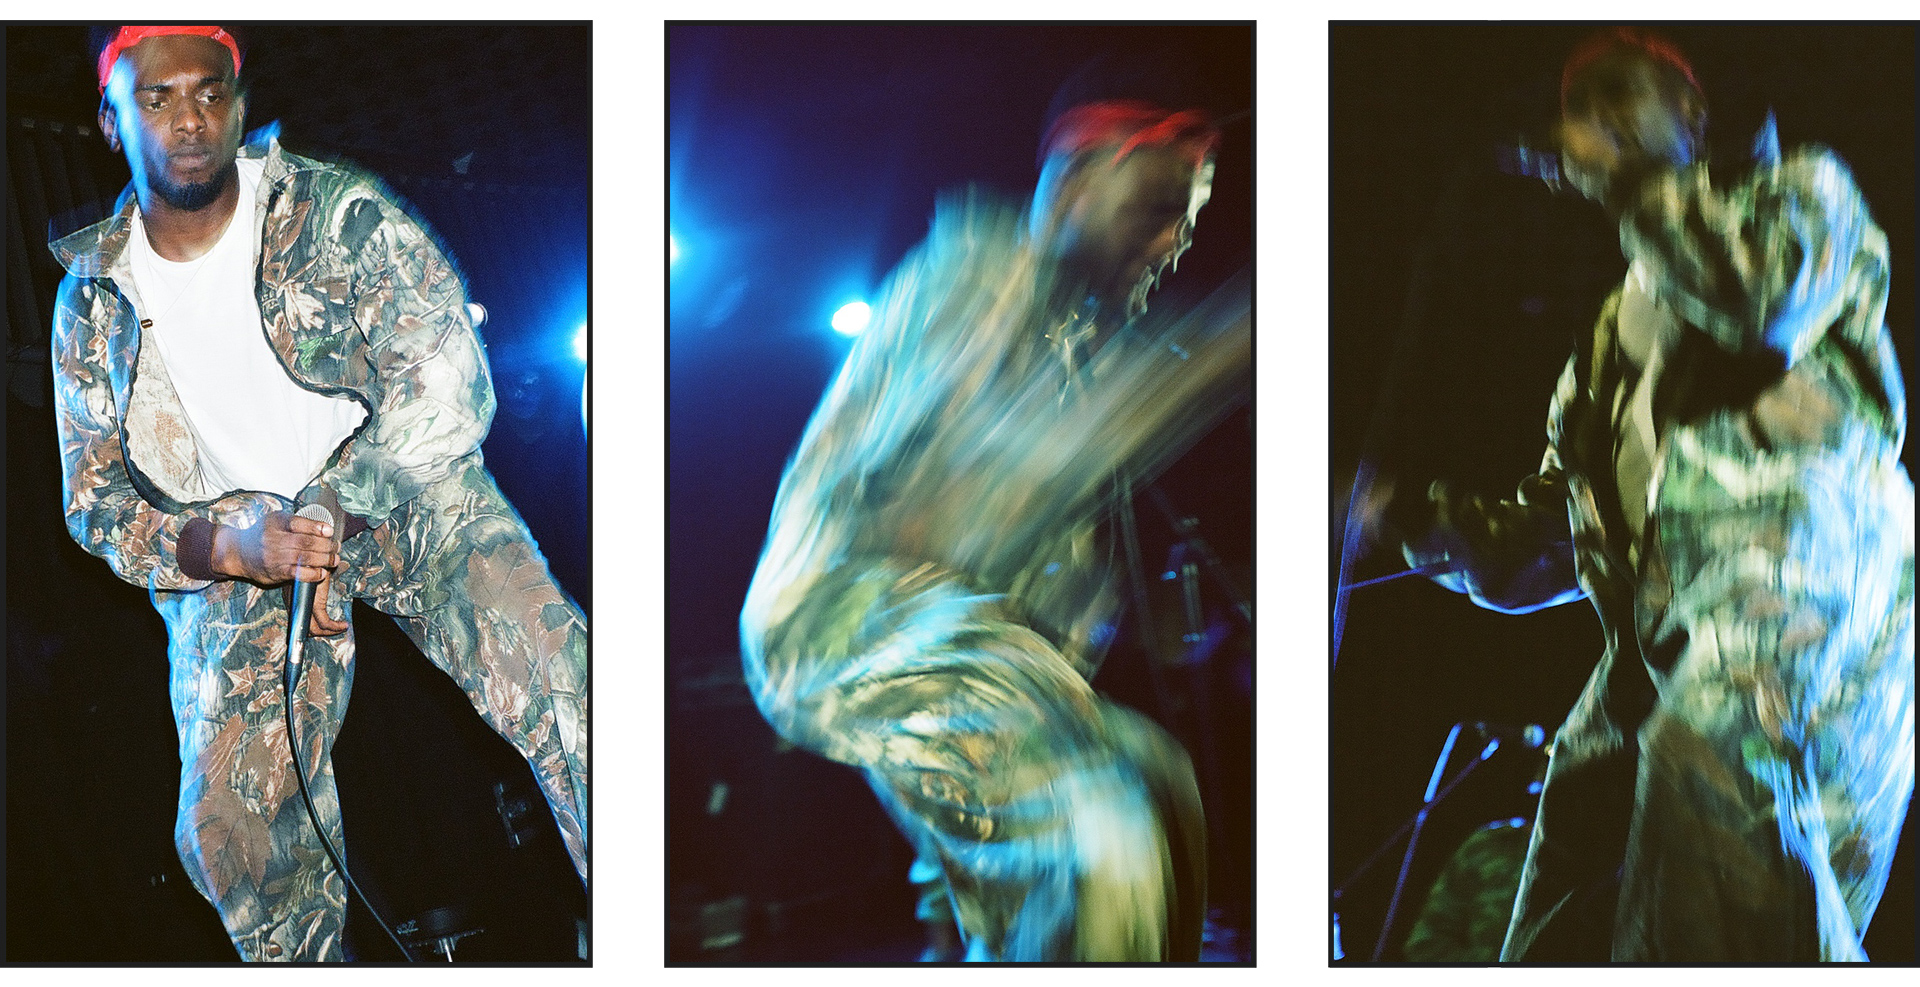
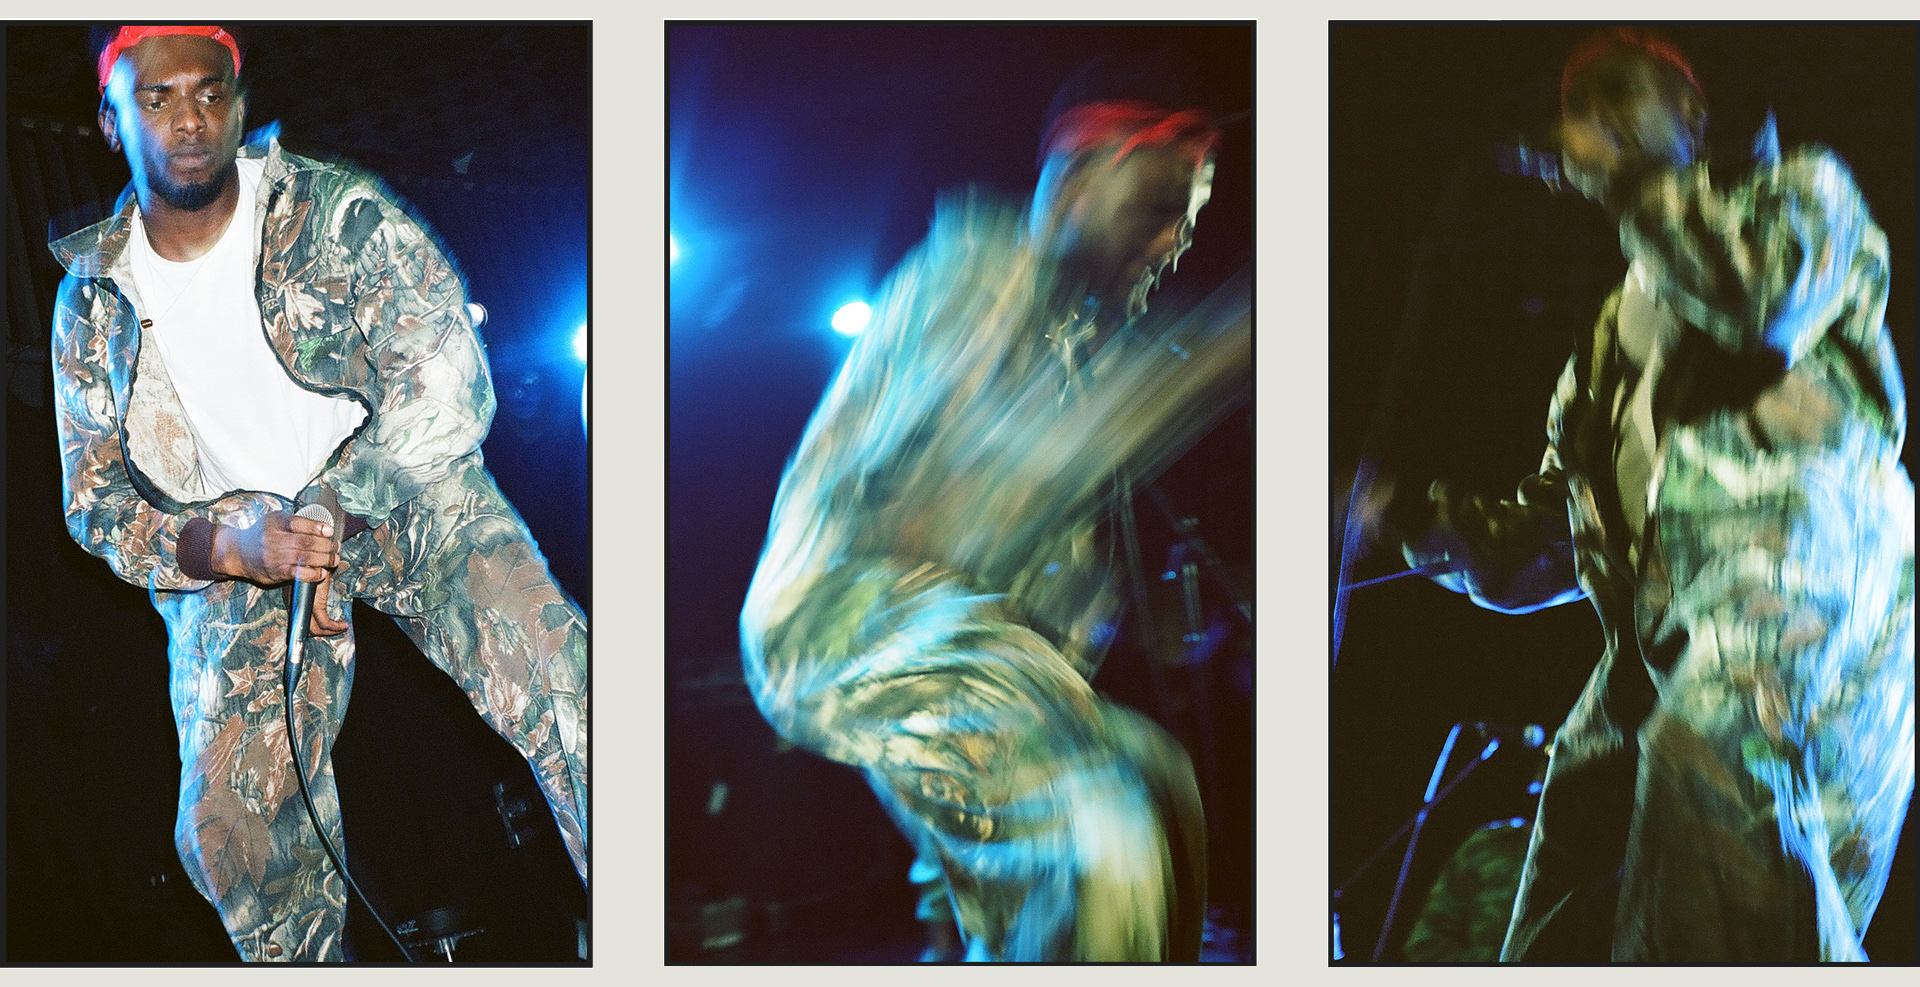
Content edits

Changed region(s): [[0.0, 0.0, 1.0, 1.0]]

diff --git a/index.html b/index.html
@@ -35,10 +35,10 @@
       <div class="grid">
 
         <div class="unit xs-1 s-1 m-1 l-1">
-        <h2 class="heading space-after centre uppercase">Press</h2>
-        <p class="space-after body-reg small-reg">Asuquomo was described by Bandcamp Daily as "...an artist elevating Ottawa immigrant communities". The Nigerian-born emcee is also a songwriter and visual artist. Since immigrating to Canada in 2012, MO's interdisciplinary background inspired the interest in narrative film writing and graphic novel adaptations, along with his musical and visual art aspirations. His 2018 self-titled LP <i>This That Mo</i>—released under his birth name Morris Ogbowu—was the recipient of the Rick and Brune Sinneave Artist Award at the Banff Centre 2018.</p>
-        <p class="space-after body-reg small-reg">MO’s rise to prominence in the Canadian hip-hop scene has earned him opening slots for the likes of Nigerian superstar Wizkid, Toronto's Jazz Cartier, Lido Pimienta, Zaki Ibrahim, BROCKHAMPTON and Lil Yatchy's Label Affiliate Kodie Shane. He’s also performed on some of the biggest stages in the city such as Ottawa’s Bluesfest, Winterlude, City Folk Festival, and Arboretum Festival. He’s garnered national attention within the past year, including an invitation to Banff Musicians In Residence. </p>
-        <p class="body-reg small-reg">Asuquomo debuted his first single after at Canadian Music Week in spring 2019 with the premiere of the Afrofusion influenced single <i>WIDE AWAKE</i> and with its accompanying visuals which have been described as a “reclaiming of the Pan-African narrative with non-verbal spells as verses and spirituals as hooks.”</p>
+        <h2 class="heading space-after centre uppercase colour-black">Press</h2>
+        <p class="space-after body-reg small-reg colour-black">Asuquomo was described by Bandcamp Daily as "...an artist elevating Ottawa immigrant communities". The Nigerian-born emcee is also a songwriter and visual artist. Since immigrating to Canada in 2012, MO's interdisciplinary background inspired the interest in narrative film writing and graphic novel adaptations, along with his musical and visual art aspirations. His 2018 self-titled LP <i>This That Mo</i>—released under his birth name Morris Ogbowu—was the recipient of the Rick and Brune Sinneave Artist Award at the Banff Centre 2018.</p>
+        <p class="space-after body-reg small-reg colour-black">MO’s rise to prominence in the Canadian hip-hop scene has earned him opening slots for the likes of Nigerian superstar Wizkid, Toronto's Jazz Cartier, Lido Pimienta, Zaki Ibrahim, BROCKHAMPTON and Lil Yatchy's Label Affiliate Kodie Shane. He’s also performed on some of the biggest stages in the city such as Ottawa’s Bluesfest, Winterlude, City Folk Festival, and Arboretum Festival. He’s garnered national attention within the past year, including an invitation to Banff Musicians In Residence. </p>
+        <p class="body-reg small-reg colour-black">Asuquomo debuted his first single after at Canadian Music Week in spring 2019 with the premiere of the Afrofusion influenced single <i>WIDE AWAKE</i> and with its accompanying visuals which have been described as a “reclaiming of the Pan-African narrative with non-verbal spells as verses and spirituals as hooks.”</p>
         </div>
 
       </div>
@@ -49,26 +49,26 @@
       <div class="grid centre">
 
         <div class="unit xs-1 s-1 m-1 l-1">
-        <h2 class="heading space-after centre uppercase">Shows</h2>
+        <h2 class="heading space-after centre uppercase colour-black">Shows</h2>
 
-        <p class="lives-shows-date body-medium uppercase small-reg">Aug 18, SUN</p>
-        <p class="body-medium small-reg">African Giant Returns Tour—Opener</p>
-        <p class="body-reg small-reg space-after-1-2">Rebel, 11 Polson Street, Toronto, ON</p>
+        <p class="lives-shows-date body-medium uppercase small-reg colour-black">Aug 18, SUN</p>
+        <p class="body-medium small-reg colour-black">African Giant Returns Tour—Opener</p>
+        <p class="body-reg small-reg space-after-1-2 colour-black">Rebel, 11 Polson Street, Toronto, ON</p>
+        <p class="body-reg small-reg uppercase button space-after3x"><a href="gallery-burnaboy.html">View gallery</a></p>
+
+        <p class="lives-shows-date body-medium uppercase small-reg colour-black">Aug 17, SAT</p>
+        <p class="body-medium small-reg colour-black">Late August Music Fest—Headliner</p>
+        <p class="body-reg small-reg space-after-1-2 colour-black">1294 Queen St. West, Toronto, ON</p>
         <p class="body-reg small-reg uppercase button space-after3x"><a href="gallery-cmw.html">View gallery</a></p>
 
-        <p class="lives-shows-date body-medium uppercase small-reg">Aug 17, SAT</p>
-        <p class="body-medium small-reg">Late August Music Fest—Headliner</p>
-        <p class="body-reg small-reg space-after-1-2">1294 Queen St. West, Toronto, ON</p>
+        <p class="lives-shows-date body-medium uppercase small-reg color-black">Jul 26, FRI</p>
+        <p class="body-medium small-reg color-black">Mdou Moctar—Opener</p>
+        <p class="body-reg small-reg space-after-1-2 color-black">Queen Street Fare, Ottawa, ON</p>
         <p class="body-reg small-reg uppercase button space-after3x"><a href="gallery-cmw.html">View gallery</a></p>
 
-        <p class="lives-shows-date body-medium uppercase small-reg">Jul 26, FRI</p>
-        <p class="body-medium small-reg">Mdou Moctar—Opener</p>
-        <p class="body-reg small-reg space-after-1-2">Queen Street Fare, Ottawa, ON</p>
-        <p class="body-reg small-reg uppercase button space-after3x"><a href="gallery-cmw.html">View gallery</a></p>
-
-        <p class="lives-shows-date body-medium uppercase small-reg">May 10, FRI</p>
-        <p class="body-medium small-reg">Blue Crane Agency, Afrofest and Canadian Music Week Presents</p>
-        <p class="body-reg small-reg space-after-1-2">Longboat Hall, 1087 Queen Street West, Toronto, ON</p>
+        <p class="lives-shows-date body-medium uppercase small-reg color-black">May 10, FRI</p>
+        <p class="body-medium small-reg color-black">Blue Crane Agency, Afrofest and Canadian Music Week Presents</p>
+        <p class="body-reg small-reg space-after-1-2 color-black">Longboat Hall, 1087 Queen Street West, Toronto, ON</p>
         <p class="body-reg small-reg uppercase button space-after3x"><a href="gallery-cmw.html">View gallery</a></p>
         </div>
 

diff --git a/gallery-burnaboy.html b/gallery-burnaboy.html
@@ -35,8 +35,7 @@
       <div class="grid centre">
 
         <div class="unit xs-1 s-1 m-1 l-1">
-        <h2 class="heading-italic centre uppercase margin0 space-after-small">Wide Awake</h2>
-        <h3 class="body-medium margin0 space-after3x">CMW Live Premiere</h3>
+        <h2 class="heading-italic centre uppercase margin0 space-after-small">African Giant Returns Tour</h2>
 
             <img class="flex space-after" src="img/cmw2019-01.jpg">
             <img class="flex space-after" src="img/cmw2019-02.jpg">

diff --git a/css/main.css b/css/main.css
@@ -12,6 +12,7 @@
   overflow-x: hidden;
 
   height: 100%;
+  background-color: #e4e4dc;
 }
 
 #body-merch {
@@ -63,11 +64,11 @@ body, p {
 
 a {
   text-decoration: none;
-  color: #0a130d;
+  color: #0f1c13;
 }
 
 .colour-black {
-  color: #0a130d;
+  color: #0f1c13;
 }
 
 .colour-white {
@@ -218,6 +219,13 @@ a {
   color: #3d4c42;
   border-bottom: 1px solid #3d4c42;
 }
+
+
+
+/******************************** PRESS *******************/
+
+
+
 
 
 
